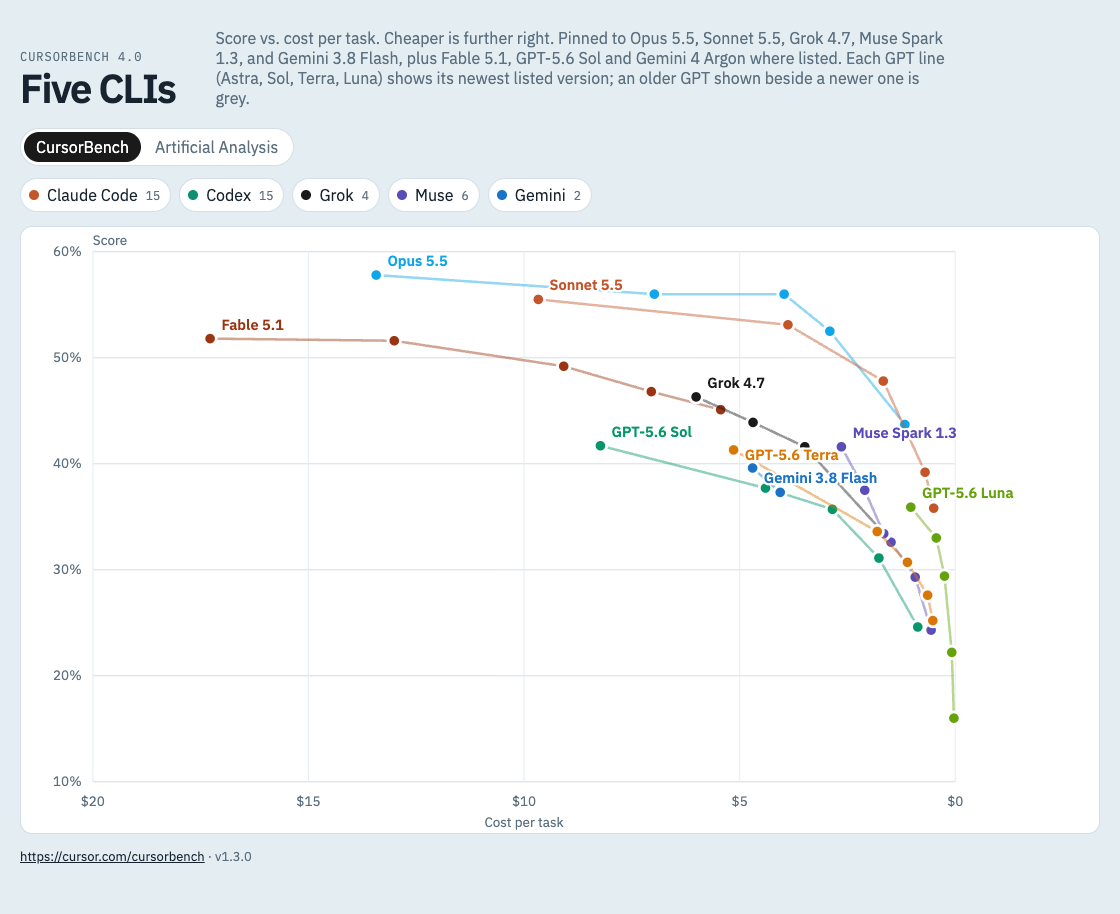
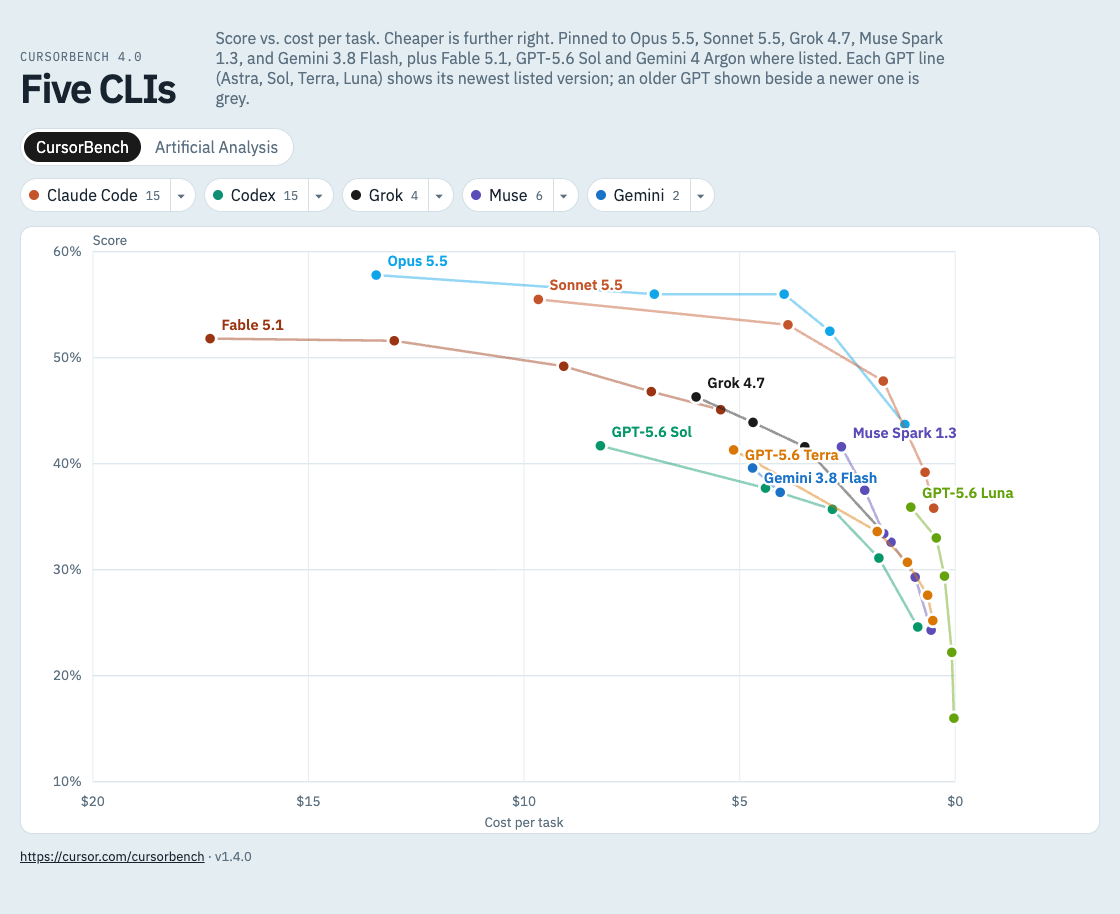
feat: per-CLI model menu on legend chips
- A ▾ next to each legend chip opens a menu to tick that CLI's models
  one by one or all at once; Esc or a click outside closes it.
- Chip count shows shown/total when some models are unticked; clicking
  an off chip brings back the CLI with all its models.
- Older-GPT grey is decided over the whole source, so it stays stable
  when the newer model is unticked.
- README (menu, usage, layout, changelog) and screenshots, new
  demo-menu.png. Bump to 1.4.0.

Changed region(s): [[0.125, 0.1838, 0.6562, 0.2451]]

diff --git a/src/Legend.tsx b/src/Legend.tsx
@@ -1,0 +1,113 @@
+import { useEffect, useRef, useState } from "react"
+import { PROVIDERS, seriesColor, type ProviderId, type Row } from "./bench"
+
+type Props = {
+  rows: Row[]
+  previous: ReadonlySet<string>
+  hiddenProviders: ReadonlySet<ProviderId>
+  hiddenModels: ReadonlySet<string>
+  onToggleProvider: (id: ProviderId) => void
+  onSetModels: (models: readonly string[], visible: boolean) => void
+}
+
+// Models of one provider, best score first, with how many points each has.
+function modelsOf(rows: Row[], provider: ProviderId) {
+  const byModel = new Map<string, { model: string; points: number; best: number }>()
+  for (const row of rows) {
+    if (row.provider !== provider) continue
+    const entry = byModel.get(row.model) ?? { model: row.model, points: 0, best: -Infinity }
+    entry.points++
+    entry.best = Math.max(entry.best, row.score)
+    byModel.set(row.model, entry)
+  }
+  return [...byModel.values()].sort((a, b) => b.best - a.best)
+}
+
+export default function Legend({ rows, previous, hiddenProviders, hiddenModels, onToggleProvider, onSetModels }: Props) {
+  const [open, setOpen] = useState<ProviderId | null>(null)
+  const ref = useRef<HTMLDivElement>(null)
+
+  useEffect(() => {
+    if (!open) return
+    const onPointer = (event: PointerEvent) => {
+      if (!ref.current?.contains(event.target as Node)) setOpen(null)
+    }
+    const onKey = (event: KeyboardEvent) => {
+      if (event.key === "Escape") setOpen(null)
+    }
+    document.addEventListener("pointerdown", onPointer)
+    document.addEventListener("keydown", onKey)
+    return () => {
+      document.removeEventListener("pointerdown", onPointer)
+      document.removeEventListener("keydown", onKey)
+    }
+  }, [open])
+
+  return (
+    <div className="legend" role="group" aria-label="Visible providers" ref={ref}>
+      {PROVIDERS.map((provider) => {
+        const models = modelsOf(rows, provider.id)
+        if (models.length === 0) return null
+        const total = models.reduce((sum, item) => sum + item.points, 0)
+        const shown = models.filter((item) => !hiddenModels.has(item.model))
+        const shownPoints = shown.reduce((sum, item) => sum + item.points, 0)
+        const off = hiddenProviders.has(provider.id) || shown.length === 0
+        const isOpen = open === provider.id
+        return (
+          <div key={provider.id} className={isOpen ? "chip-group open" : "chip-group"}>
+            <button
+              type="button"
+              className={off ? "chip off" : "chip"}
+              aria-pressed={!off}
+              onClick={() => onToggleProvider(provider.id)}
+            >
+              <span className="swatch" style={{ background: provider.color }} />
+              {provider.name}
+              <span className="count">{shownPoints === total ? total : `${shownPoints}/${total}`}</span>
+            </button>
+            <button
+              type="button"
+              className="chip-caret"
+              aria-label={`Choose ${provider.name} models`}
+              aria-haspopup="true"
+              aria-expanded={isOpen}
+              onClick={() => setOpen(isOpen ? null : provider.id)}
+            >
+              ▾
+            </button>
+            {isOpen ? (
+              <div className="menu" role="group" aria-label={`${provider.name} models`}>
+                <label className="menu-row menu-all">
+                  <input
+                    type="checkbox"
+                    checked={shown.length === models.length}
+                    ref={(input) => {
+                      if (input) input.indeterminate = shown.length > 0 && shown.length < models.length
+                    }}
+                    onChange={(event) => onSetModels(models.map((item) => item.model), event.target.checked)}
+                  />
+                  All models
+                </label>
+                {models.map((item) => (
+                  <label key={item.model} className="menu-row">
+                    <input
+                      type="checkbox"
+                      checked={!hiddenModels.has(item.model)}
+                      onChange={(event) => onSetModels([item.model], event.target.checked)}
+                    />
+                    <span
+                      className="swatch"
+                      style={{ background: seriesColor(item.model, provider.id, previous.has(item.model)) }}
+                    />
+                    <span className="menu-name">{item.model}</span>
+                    <span className="count">{item.points}</span>
+                  </label>
+                ))}
+              </div>
+            ) : null}
+          </div>
+        )
+      })}
+    </div>
+  )
+}

diff --git a/src/App.tsx b/src/App.tsx
@@ -1,13 +1,14 @@
 import { useEffect, useMemo, useState } from "react"
 import {
   APP_VERSION,
-  PROVIDERS,
   SOURCES,
+  previousGenerations,
   type ProviderId,
   type Row,
   type SourceId,
 } from "./bench"
 import Chart from "./Chart"
+import Legend from "./Legend"
 
 function initialSource(): SourceId {
   return new URLSearchParams(window.location.search).get("source") === "aa" ? "aa" : "cursorbench"
@@ -16,6 +17,7 @@ function initialSource(): SourceId {
 export default function App() {
   const [source, setSource] = useState<SourceId>(initialSource)
   const [hidden, setHidden] = useState<ReadonlySet<ProviderId>>(() => new Set())
+  const [hiddenModels, setHiddenModels] = useState<ReadonlySet<string>>(() => new Set())
   const [rows, setRows] = useState<Row[]>([])
   const [error, setError] = useState<string | null>(null)
   const [hover, setHover] = useState<string | null>(null)
@@ -52,18 +54,43 @@ export default function App() {
   const meta = SOURCES[source]
 
   const visible = useMemo(
-    () => rows.filter((row) => !hidden.has(row.provider)),
-    [rows, hidden],
+    () => rows.filter((row) => !hidden.has(row.provider) && !hiddenModels.has(row.model)),
+    [rows, hidden, hiddenModels],
   )
+  // Grey marks an older GPT beside a newer one in this source, even when the newer is unticked.
+  const previous = useMemo(() => previousGenerations([...new Set(rows.map((row) => row.model))]), [rows])
   const active = pinned ?? hover
 
+  // A chip is off when its provider is hidden or every one of its models is unticked;
+  // turning it back on shows the provider with all of its models.
   const toggle = (id: ProviderId) => {
+    const models = [...new Set(rows.filter((row) => row.provider === id).map((row) => row.model))]
+    const off = hidden.has(id) || models.every((model) => hiddenModels.has(model))
     setHidden((current) => {
       const next = new Set(current)
-      if (next.has(id)) next.delete(id)
+      if (off) next.delete(id)
       else next.add(id)
       return next
     })
+    if (off) {
+      setHiddenModels((current) => new Set([...current].filter((model) => !models.includes(model))))
+    }
+    setPinned(null)
+  }
+
+  const setModels = (models: readonly string[], show: boolean) => {
+    setHiddenModels((current) => {
+      const next = new Set(current)
+      for (const model of models) {
+        if (show) next.delete(model)
+        else next.add(model)
+      }
+      return next
+    })
+    if (show) {
+      const providers = new Set(rows.filter((row) => models.includes(row.model)).map((row) => row.provider))
+      setHidden((current) => new Set([...current].filter((id) => !providers.has(id))))
+    }
     setPinned(null)
   }
 
@@ -98,33 +125,21 @@ export default function App() {
         ))}
       </div>
 
-      <div className="legend" role="group" aria-label="Visible providers">
-        {PROVIDERS.map((provider) => {
-          const count = rows.filter((row) => row.provider === provider.id).length
-          if (count === 0) return null
-          const off = hidden.has(provider.id)
-          return (
-            <button
-              key={provider.id}
-              type="button"
-              className={off ? "chip off" : "chip"}
-              aria-pressed={!off}
-              onClick={() => toggle(provider.id)}
-            >
-              <span className="swatch" style={{ background: provider.color }} />
-              {provider.name}
-              <span className="count">{count}</span>
-            </button>
-          )
-        })}
-      </div>
+      <Legend
+        rows={rows}
+        previous={previous}
+        hiddenProviders={hidden}
+        hiddenModels={hiddenModels}
+        onToggleProvider={toggle}
+        onSetModels={setModels}
+      />
 
       {error ? (
         <p className="empty">Could not load this page ({error}).</p>
       ) : rows.length === 0 ? (
         <p className="empty">Loading {meta.name}…</p>
       ) : (
-        <Chart rows={visible} unit={meta.unit} scoreName={meta.scoreName} active={active} onHover={setHover} onPick={(label) => setPinned((current) => (current === label ? null : label))} />
+        <Chart rows={visible} previous={previous} unit={meta.unit} scoreName={meta.scoreName} active={active} onHover={setHover} onPick={(label) => setPinned((current) => (current === label ? null : label))} />
       )}
 
       <p className="foot">

diff --git a/src/index.css b/src/index.css
@@ -122,6 +122,76 @@ h1 {
   opacity: 0.4;
 }
 
+.chip-group {
+  position: relative;
+  display: inline-flex;
+}
+
+.chip-group .chip {
+  border-radius: 999px 0 0 999px;
+  border-right: 0;
+}
+
+.chip-caret {
+  padding: 0 10px 0 6px;
+  border: 1px solid var(--line);
+  border-left: 1px solid var(--line);
+  border-radius: 0 999px 999px 0;
+  background: #fff;
+  color: var(--muted);
+  cursor: pointer;
+  font: inherit;
+  font-size: 12px;
+}
+
+.chip-group.open .chip,
+.chip-group.open .chip-caret {
+  border-color: #1a73c7;
+}
+
+.chip-caret:focus-visible {
+  outline: 2px solid #1a73c7;
+  outline-offset: 2px;
+}
+
+.menu {
+  position: absolute;
+  top: calc(100% + 6px);
+  left: 0;
+  z-index: 10;
+  min-width: 220px;
+  padding: 6px;
+  border: 1px solid var(--line);
+  border-radius: 10px;
+  background: #fff;
+  box-shadow: 0 8px 24px rgb(23 35 46 / 12%);
+}
+
+.menu-row {
+  display: flex;
+  align-items: center;
+  gap: 8px;
+  padding: 6px 8px;
+  border-radius: 6px;
+  cursor: pointer;
+  white-space: nowrap;
+}
+
+.menu-row:hover {
+  background: var(--sheet);
+}
+
+.menu-all {
+  margin-bottom: 4px;
+  border-bottom: 1px solid var(--line);
+  border-radius: 6px 6px 0 0;
+  color: var(--muted);
+}
+
+.menu-name {
+  flex: 1;
+}
+
 .chip:focus-visible,
 .axis-btn:focus-visible,
 .sort:focus-visible,

diff --git a/src/Chart.tsx b/src/Chart.tsx
@@ -4,7 +4,6 @@ import {
   formatCostTick,
   formatScore,
   niceCeil,
-  previousGenerations,
   seriesColor,
   tickValues,
   type Row,
@@ -24,6 +23,7 @@ type Label = {
 
 type Props = {
   rows: Row[]
+  previous: ReadonlySet<string>
   unit: string
   scoreName: string
   active: string | null
@@ -38,7 +38,7 @@ function effortIndex(effort: string | null) {
   return index === -1 ? 98 : index
 }
 
-export default function Chart({ rows, unit, scoreName, active, onHover, onPick }: Props) {
+export default function Chart({ rows, previous, unit, scoreName, active, onHover, onPick }: Props) {
   const [narrow, setNarrow] = useState(
     () => typeof window !== "undefined" && window.matchMedia("(max-width: 720px)").matches,
   )
@@ -74,7 +74,6 @@ export default function Chart({ rows, unit, scoreName, active, onHover, onPick }
   const xTicks = tickValues(0, xMax, 6)
   const yTicks = tickValues(yMin, yMax, 6)
 
-  const previous = previousGenerations([...new Set(rows.map((row) => row.model))])
   const colorOf = (model: string, provider: Row["provider"]) => seriesColor(model, provider, previous.has(model))
 
   const byModel = new Map<string, Row[]>()

diff --git a/src/bench.ts b/src/bench.ts
@@ -46,7 +46,7 @@ export const SOURCES: Record<
   },
 }
 
-export const APP_VERSION = "1.3.0"
+export const APP_VERSION = "1.4.0"
 
 export function providerById(id: ProviderId) {
   const found = PROVIDERS.find((item) => item.id === id)

diff --git a/README.md b/README.md
@@ -20,6 +20,10 @@ Hovering a point spotlights that model: the other lines fade, a crosshair marks 
 
 ![Demo: hover spotlights one model and dims the rest](docs/demo-hover.png)
 
+Each legend chip also has a ▾ menu to tick the models of that CLI one by one. Here GPT-5.6 Terra and GPT-6 Luna are unticked, so Codex shows 15 of its 25 points.
+
+![Demo: the model menu under a legend chip](docs/demo-menu.png)
+
 Clicking a legend chip shows or hides that CLI. Here only Codex is visible, comparing GPT-5.6 Sol, Terra and Luna across effort levels.
 
 ![Demo: legend chips filter the chart to one CLI](docs/demo-filter.png)
@@ -46,7 +50,8 @@ Open the URL Vite prints (default http://localhost:5173).
 ## Using the chart
 
 - **Source toggle:** switch between CursorBench and Artificial Analysis.
-- **Legend chips:** click to show or hide a CLI. The number is how many points it has.
+- **Legend chips:** click to show or hide a CLI. The number is how many points it has, or shown/total when some models are unticked.
+- **▾ next to a chip:** tick or untick that CLI's models one by one, or all at once. Esc or a click outside closes it.
 - **Hover** a point to highlight its label, score, and cost.
 - **Click** a point to pin it. Click again to unpin.
 
@@ -85,7 +90,8 @@ The Artificial Analysis source (`/api/bench?source=aa`, in [server/aa.mjs](serve
 ```
 server/bench.mjs   CursorBench scraper, model filter, cache, and the /api/bench Vite plugin
 server/aa.mjs      Artificial Analysis source (release pages, per-effort rows, cache)
-src/App.tsx        Page layout, source toggle, legend chips, data loading
+src/App.tsx        Page layout, source toggle, data loading, visibility state
+src/Legend.tsx     Legend chips and the per-CLI model menu
 src/Chart.tsx      SVG scatter/line chart (score vs. cost)
 src/bench.ts       Shared types, provider colors, formatting helpers
 ```
@@ -96,6 +102,7 @@ Edit `KEEP`, `EXTRA` and `GPT_LINES` in [server/bench.mjs](server/bench.mjs), th
 
 ## Changelog
 
+- **1.4.0** (2026-10-01): A ▾ menu on each legend chip ticks that CLI's models one by one. The chip count shows shown/total when some are unticked.
 - **1.3.0** (2026-10-01): Fable 5.1, GPT-5.6 Sol and Gemini 4 Argon drawn on whichever source lists them. An older GPT shown beside a newer version of its line is grey. AA release discovery also reads releases that appear only through their variants.
 - **1.2.0** (2026-10-01): Data source toggle between CursorBench and the Artificial Analysis Intelligence Index (`?source=aa`), so GPT-6.1 Sol, GPT-6 Astra and GPT-6 Luna can be seen before CursorBench lists them. AA rows are read per release and per effort, never borrowed from a neighbouring model.
 - **1.1.0** (2026-10-01): Each GPT line shows its newest listed version (GPT-6.1 Sol replaces GPT-6 Sol, which replaces GPT-5.6 Sol). Added Sonnet 5.5 and GPT-5.6 Luna.
